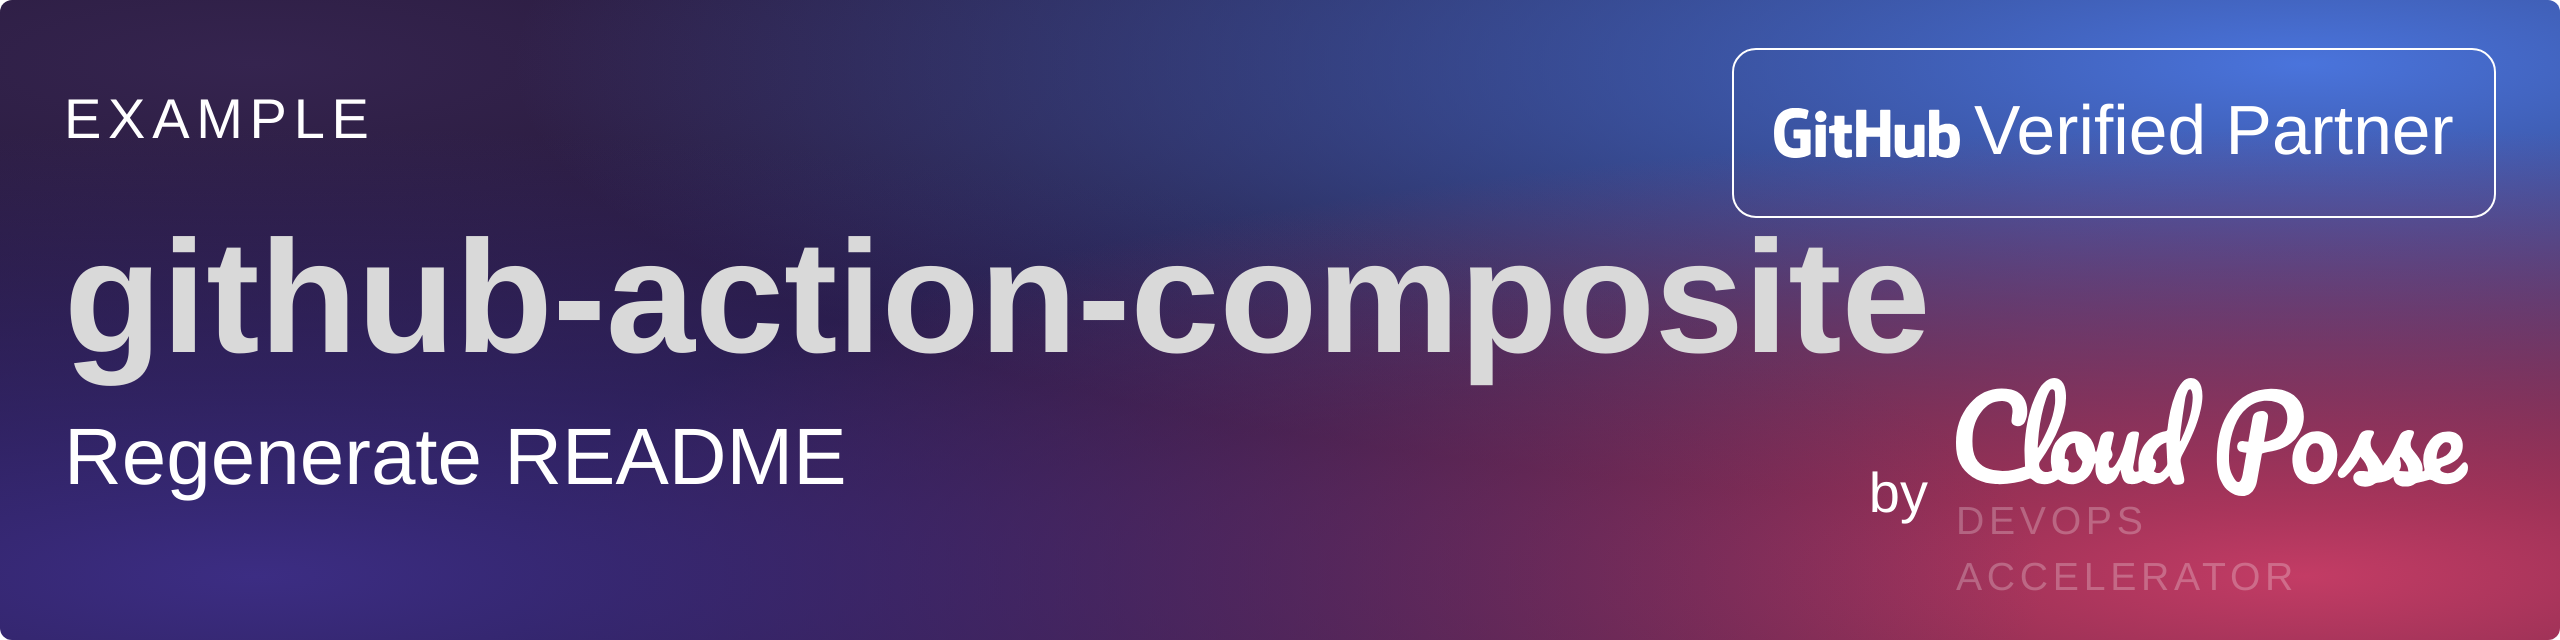
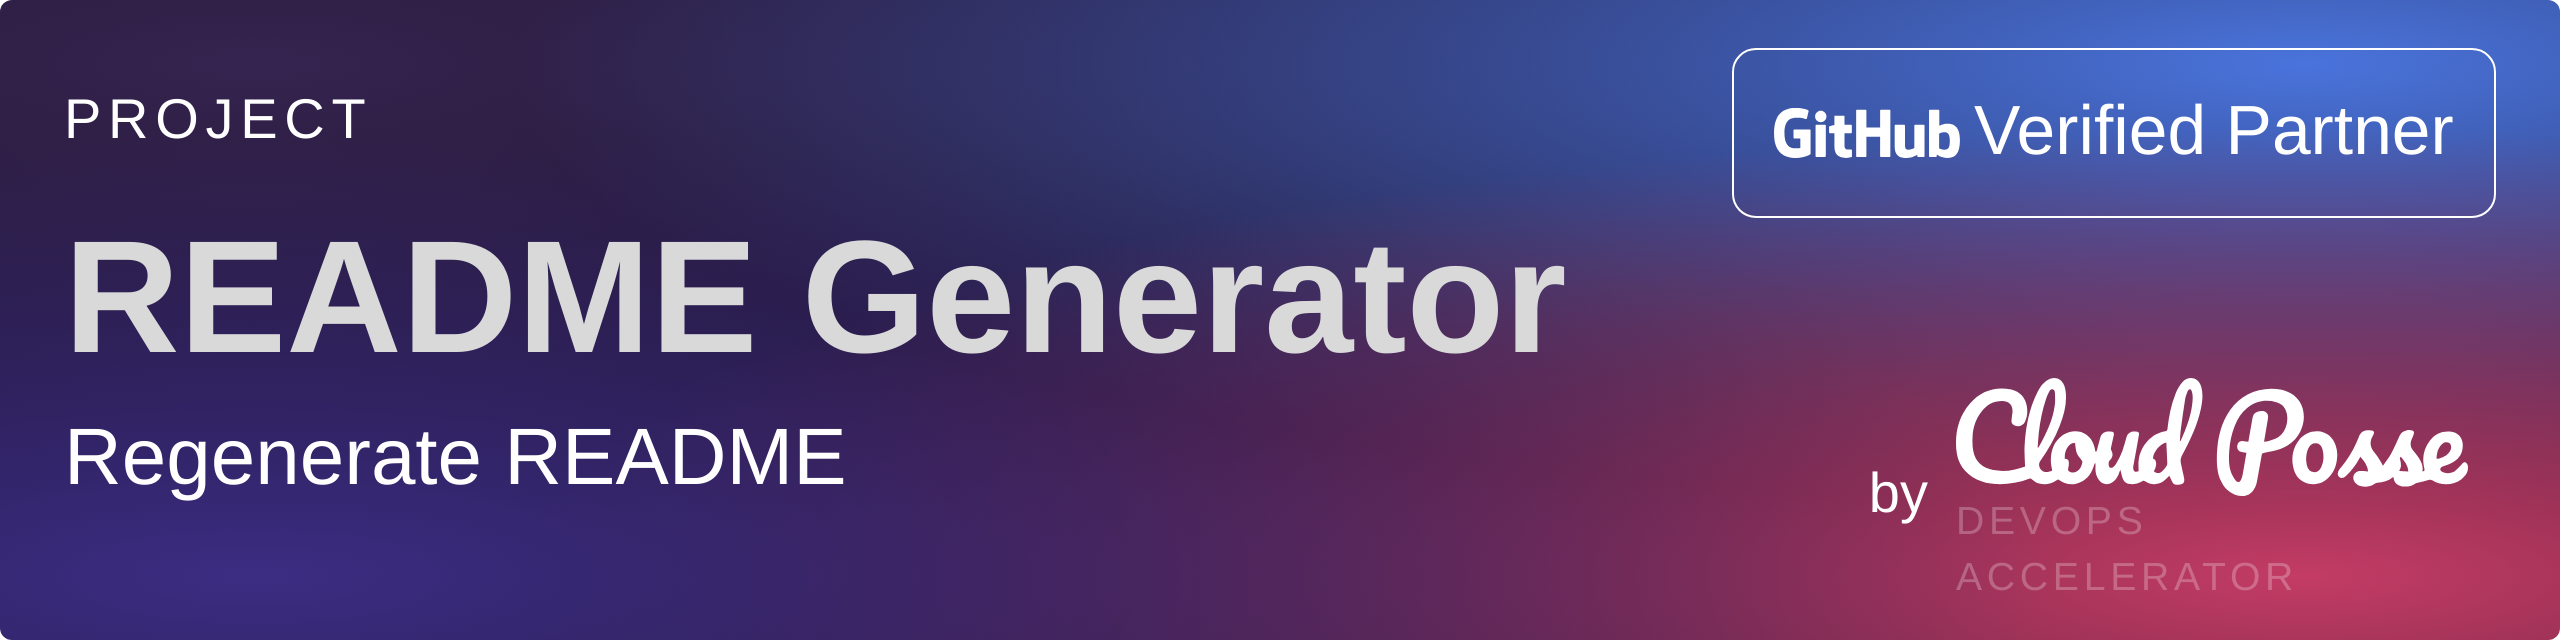
chore: update README.md and docs

Changed region(s): [[0.0312, 0.375, 0.75, 0.625], [0.0312, 0.1562, 0.1562, 0.2188]]

diff --git a/README.md b/README.md
@@ -1,7 +1,7 @@
 
 <!-- markdownlint-disable -->
 [![Project Banner](.github/banner.png?raw=true)](https://cpco.io/homepage)
- [![Latest Release](https://img.shields.io/github/release/cloudposse/example-github-action-composite.svg)](https://github.com/cloudposse/example-github-action-composite/releases/latest) [![Slack Community](https://slack.cloudposse.com/badge.svg)](https://slack.cloudposse.com)
+ [![Latest Release](https://img.shields.io/github/release/cloudposse-github-actions/readme.svg)](https://github.com/cloudposse-github-actions/readme/releases/latest) [![Slack Community](https://slack.cloudposse.com/badge.svg)](https://slack.cloudposse.com)
 <!-- markdownlint-restore -->
 
 
@@ -26,7 +26,8 @@
 
 -->
 
-Template repository of composite GitHub Action
+Rebuilds [`README.md`](README.md) and associated banners from templates using the [`README.yaml`](README.yaml) metadata.
+
 
 
 ---
@@ -41,8 +42,8 @@ Template repository of composite GitHub Action
 
 ## Introduction
 
-This is template repository to create composite GitHub Actions. 
-Feel free to use it as reference and starting point.
+This opinionated implementation builds upon Cloud Posse's build-harness and README.yaml
+used throughout Cloud Posse's GitHub repositories.
 
 
 
@@ -50,25 +51,69 @@ Feel free to use it as reference and starting point.
 
 
 
+To use this project, follow these steps:
+
+Add the following code to your workflow file (e.g., `.github/workflows/readme.yml`):
+
 ```yaml
-  name: Pull Request
+name: README
+on:
+  pull_request:
+    branches: [ 'main' ]
+    types: [opened, synchronize, reopened, closed, labeled, unlabeled]
+
+jobs:
+  generate:
+    runs-on: ubuntu-latest
+    steps:
+      - name: Rebuild README.md and Banner
+        uses: cloudposse-github-actions/readme@v0
+        id: readme
+        with:
+          banner_enabled: true
+          readme_enabled: true
+
+    outputs:
+      result: ${{ steps.readme.outputs.result1 }}
+```
+
+## Advanced Usage
+
+In the following example, we use the `workflow_dispatch` event to allow manual triggering of the workflow to rebuild the readme.  
+We also use the `pull_request` event to register the workflow from the PR. This allows us to test the workflow before merging
+it to the main branch.
+
+```yaml
+  name: README
   on:
+    # Allow manual triggering of workflow to rebuild readme
+    workflow_dispatch: {}
+
+    ## Added pull_request to register workflow from the PR.
+    ## Read more https://stackoverflow.com/questions/63362126/github-actions-how-to-run-a-workflow-created-on-a-non-master-branch-from-the-wo
     pull_request:
-      branches: [ 'main' ]
-      types: [opened, synchronize, reopened, closed, labeled, unlabeled]
+      branches-ignore: ['*']
+
+  schedule:
+    # Update README.md nightly at 4am UTC
+    #         .---------------- minute (0 - 59)
+    #         |  .------------- hour (0 - 23)
+    #         |  |  .---------- day of month (1 - 31)
+    #         |  |  |  .------- month (1 - 12) OR jan,feb,mar,apr ...
+    #         |  |  |  |  .---- day of week (0 - 6) (Sunday=0 or 7) OR sun,mon,tue,wed,thu,fri,sat
+    #         |  |  |  |  |
+    - cron:  '0  4  *  *  *'
 
   jobs:
-    context:
+    generate:
       runs-on: ubuntu-latest
       steps:
-        - name: Example action
-          uses: cloudposse/example-github-action-composite@main
-          id: example
+        - name: Rebuild README.md and Banner
+          uses: cloudposse-github-actions/readme@v0
+          id: readme
           with:
-            param1: true
-
-      outputs:
-        result: ${{ steps.example.outputs.result1 }}
+            banner_enabled: true
+            readme_enabled: true
 ```
 
 
@@ -95,7 +140,7 @@ Feel free to use it as reference and starting point.
 | readme\_enabled | readme\_enabled | true | false |
 | repository\_description | repository\_description |  | false |
 | repository\_name | repository\_name |  | false |
-| repository\_org | repository\_org |  | false |
+| repository\_org | GitHub organization or user name used for the banner templates |  | false |
 
 
 ## Outputs
@@ -117,8 +162,7 @@ Check out these related projects.
 
 For additional context, refer to some of these links.
 
-- [github-actions-workflows](https://github.com/cloudposse/github-actions-workflows) - Reusable workflows for different types of projects
-- [example-github-action-release-workflow](https://github.com/cloudposse/example-github-action-release-workflow) - Example application with complicated release workflow
+- [screenshot](https://github.com/cloudposse-github-actions/screenshot) - 
 
 
 ## ✨ Contributing
@@ -126,13 +170,13 @@ For additional context, refer to some of these links.
 This project is under active development, and we encourage contributions from our community. 
 Many thanks to our outstanding contributors:
 
-<a href="https://github.com/cloudposse/example-github-action-composite/graphs/contributors">
-  <img src="https://contrib.rocks/image?repo=cloudposse/example-github-action-composite&max=24" />
+<a href="https://github.com/cloudposse-github-actions/readme/graphs/contributors">
+  <img src="https://contrib.rocks/image?repo=cloudposse-github-actions/readme&max=24" />
 </a>
 
 ### 🐛 Bug Reports & Feature Requests
 
-Please use the [issue tracker](https://github.com/cloudposse/example-github-action-composite/issues) to report any bugs or file feature requests.
+Please use the [issue tracker](https://github.com/cloudposse-github-actions/readme/issues) to report any bugs or file feature requests.
 
 ### 💻 Developing
 
@@ -219,24 +263,24 @@ Copyright © 2017-2024 [Cloud Posse, LLC](https://cpco.io/copyright)
 [![Beacon][beacon]][website]
 <!-- markdownlint-disable -->
   [logo]: https://cloudposse.com/logo-300x69.svg
-  [docs]: https://cpco.io/docs?utm_source=github&utm_medium=readme&utm_campaign=cloudposse/example-github-action-composite&utm_content=docs
-  [website]: https://cpco.io/homepage?utm_source=github&utm_medium=readme&utm_campaign=cloudposse/example-github-action-composite&utm_content=website
-  [github]: https://cpco.io/github?utm_source=github&utm_medium=readme&utm_campaign=cloudposse/example-github-action-composite&utm_content=github
-  [jobs]: https://cpco.io/jobs?utm_source=github&utm_medium=readme&utm_campaign=cloudposse/example-github-action-composite&utm_content=jobs
-  [hire]: https://cpco.io/hire?utm_source=github&utm_medium=readme&utm_campaign=cloudposse/example-github-action-composite&utm_content=hire
-  [slack]: https://cpco.io/slack?utm_source=github&utm_medium=readme&utm_campaign=cloudposse/example-github-action-composite&utm_content=slack
-  [twitter]: https://cpco.io/twitter?utm_source=github&utm_medium=readme&utm_campaign=cloudposse/example-github-action-composite&utm_content=twitter
-  [office_hours]: https://cloudposse.com/office-hours?utm_source=github&utm_medium=readme&utm_campaign=cloudposse/example-github-action-composite&utm_content=office_hours
-  [newsletter]: https://cpco.io/newsletter?utm_source=github&utm_medium=readme&utm_campaign=cloudposse/example-github-action-composite&utm_content=newsletter
-  [email]: https://cpco.io/email?utm_source=github&utm_medium=readme&utm_campaign=cloudposse/example-github-action-composite&utm_content=email
-  [commercial_support]: https://cpco.io/commercial-support?utm_source=github&utm_medium=readme&utm_campaign=cloudposse/example-github-action-composite&utm_content=commercial_support
-  [we_love_open_source]: https://cpco.io/we-love-open-source?utm_source=github&utm_medium=readme&utm_campaign=cloudposse/example-github-action-composite&utm_content=we_love_open_source
-  [terraform_modules]: https://cpco.io/terraform-modules?utm_source=github&utm_medium=readme&utm_campaign=cloudposse/example-github-action-composite&utm_content=terraform_modules
+  [docs]: https://cpco.io/docs?utm_source=github&utm_medium=readme&utm_campaign=cloudposse-github-actions/readme&utm_content=docs
+  [website]: https://cpco.io/homepage?utm_source=github&utm_medium=readme&utm_campaign=cloudposse-github-actions/readme&utm_content=website
+  [github]: https://cpco.io/github?utm_source=github&utm_medium=readme&utm_campaign=cloudposse-github-actions/readme&utm_content=github
+  [jobs]: https://cpco.io/jobs?utm_source=github&utm_medium=readme&utm_campaign=cloudposse-github-actions/readme&utm_content=jobs
+  [hire]: https://cpco.io/hire?utm_source=github&utm_medium=readme&utm_campaign=cloudposse-github-actions/readme&utm_content=hire
+  [slack]: https://cpco.io/slack?utm_source=github&utm_medium=readme&utm_campaign=cloudposse-github-actions/readme&utm_content=slack
+  [twitter]: https://cpco.io/twitter?utm_source=github&utm_medium=readme&utm_campaign=cloudposse-github-actions/readme&utm_content=twitter
+  [office_hours]: https://cloudposse.com/office-hours?utm_source=github&utm_medium=readme&utm_campaign=cloudposse-github-actions/readme&utm_content=office_hours
+  [newsletter]: https://cpco.io/newsletter?utm_source=github&utm_medium=readme&utm_campaign=cloudposse-github-actions/readme&utm_content=newsletter
+  [email]: https://cpco.io/email?utm_source=github&utm_medium=readme&utm_campaign=cloudposse-github-actions/readme&utm_content=email
+  [commercial_support]: https://cpco.io/commercial-support?utm_source=github&utm_medium=readme&utm_campaign=cloudposse-github-actions/readme&utm_content=commercial_support
+  [we_love_open_source]: https://cpco.io/we-love-open-source?utm_source=github&utm_medium=readme&utm_campaign=cloudposse-github-actions/readme&utm_content=we_love_open_source
+  [terraform_modules]: https://cpco.io/terraform-modules?utm_source=github&utm_medium=readme&utm_campaign=cloudposse-github-actions/readme&utm_content=terraform_modules
   [readme_header_img]: https://cloudposse.com/readme/header/img
-  [readme_header_link]: https://cloudposse.com/readme/header/link?utm_source=github&utm_medium=readme&utm_campaign=cloudposse/example-github-action-composite&utm_content=readme_header_link
+  [readme_header_link]: https://cloudposse.com/readme/header/link?utm_source=github&utm_medium=readme&utm_campaign=cloudposse-github-actions/readme&utm_content=readme_header_link
   [readme_footer_img]: https://cloudposse.com/readme/footer/img
-  [readme_footer_link]: https://cloudposse.com/readme/footer/link?utm_source=github&utm_medium=readme&utm_campaign=cloudposse/example-github-action-composite&utm_content=readme_footer_link
+  [readme_footer_link]: https://cloudposse.com/readme/footer/link?utm_source=github&utm_medium=readme&utm_campaign=cloudposse-github-actions/readme&utm_content=readme_footer_link
   [readme_commercial_support_img]: https://cloudposse.com/readme/commercial-support/img
-  [readme_commercial_support_link]: https://cloudposse.com/readme/commercial-support/link?utm_source=github&utm_medium=readme&utm_campaign=cloudposse/example-github-action-composite&utm_content=readme_commercial_support_link
-  [beacon]: https://ga-beacon.cloudposse.com/UA-76589703-4/cloudposse/example-github-action-composite?pixel&cs=github&cm=readme&an=example-github-action-composite
+  [readme_commercial_support_link]: https://cloudposse.com/readme/commercial-support/link?utm_source=github&utm_medium=readme&utm_campaign=cloudposse-github-actions/readme&utm_content=readme_commercial_support_link
+  [beacon]: https://ga-beacon.cloudposse.com/UA-76589703-4/cloudposse-github-actions/readme?pixel&cs=github&cm=readme&an=readme
 <!-- markdownlint-restore -->
